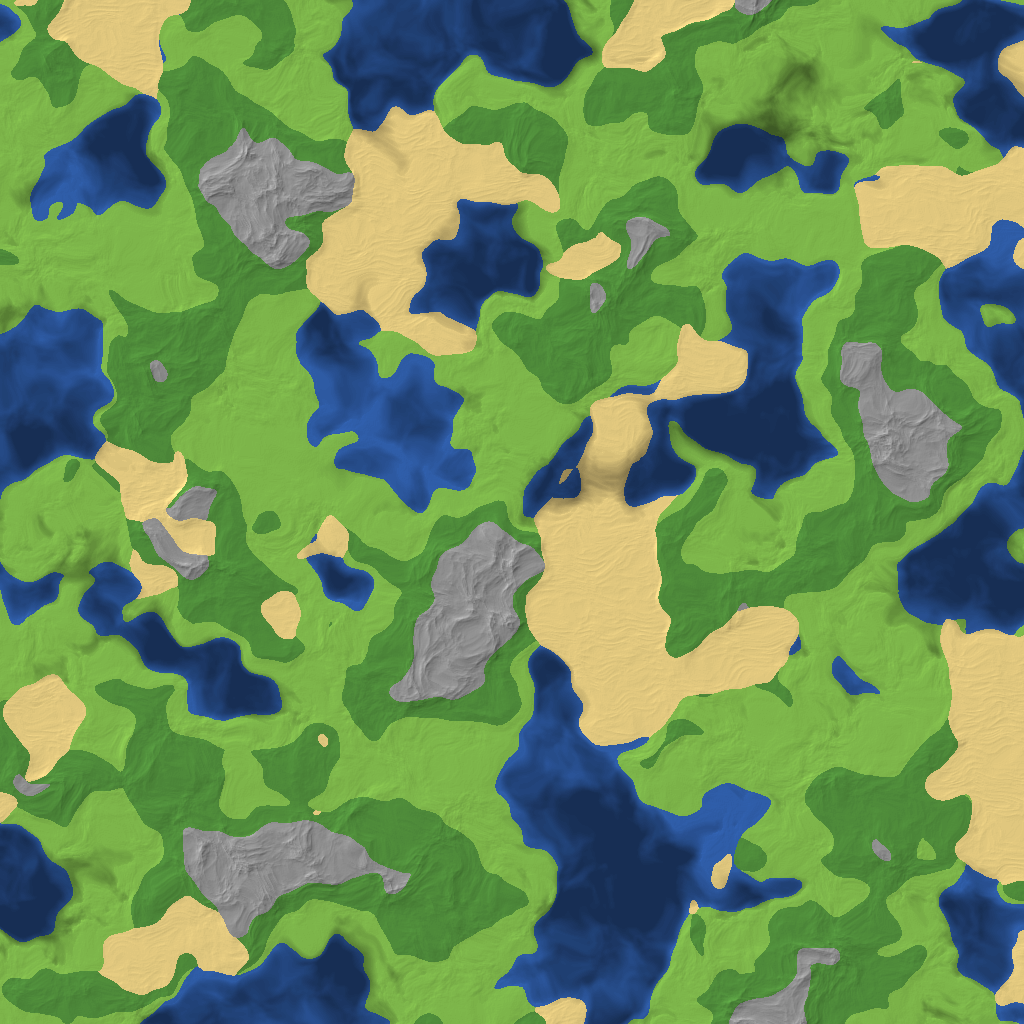
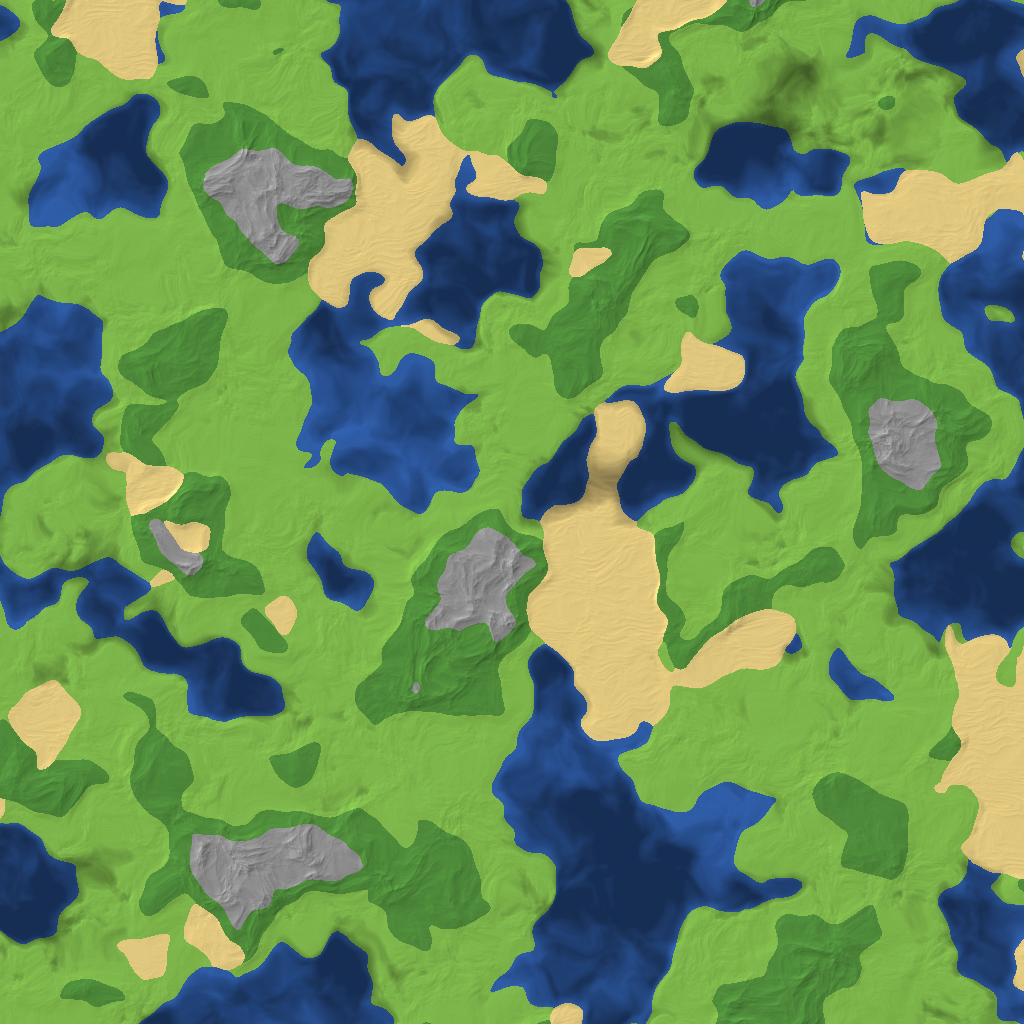
Rebalance biome sizes, raise mountains and refresh README maps

diff --git a/src/main/java/World/Biome/MountainsBiome.java b/src/main/java/World/Biome/MountainsBiome.java
@@ -9,8 +9,8 @@ import org.joml.Vector2d;
 public class MountainsBiome extends Biome {
 
     // Lifts the whole range above the surrounding land before peaks are added
-    static final double BASE_LIFT = 30.0;
-    static final double PEAK_HEIGHT = 117.0;
+    static final double BASE_LIFT = 45.0;
+    static final double PEAK_HEIGHT = 140.0;
     // Smaller scale = wider ridges
     static final double RIDGE_SCALE = 0.006 / 1.3;
     private static final int RIDGE_OCTAVES = 5;
@@ -19,7 +19,7 @@ public class MountainsBiome extends Biome {
 
     public MountainsBiome() {
         super("Mountains",
-                new Climate(0.0, 0.0, 1.0),
+                new Climate(0.0, 0.0, 1.1),
                 new TerrainSettings()
                         .baseHeight(64)
                         .hills(12.0, 0.012, 4),

diff --git a/src/main/java/World/Biome/HillyPlainsBiome.java b/src/main/java/World/Biome/HillyPlainsBiome.java
@@ -20,7 +20,7 @@ public class HillyPlainsBiome extends Biome {
 
     public HillyPlainsBiome() {
         super("Hilly Plains",
-                new Climate(0.0, 0.15, 0.5),
+                new Climate(0.0, 0.15, 0.73),
                 new TerrainSettings()
                         .baseHeight(64)
                         .hills(12.0, 0.012, 4)

diff --git a/src/main/java/World/Biome/DesertBiome.java b/src/main/java/World/Biome/DesertBiome.java
@@ -14,7 +14,7 @@ public class DesertBiome extends Biome {
 
     public DesertBiome() {
         super("Desert",
-                new Climate(0.7, -0.7, 0.0),
+                new Climate(0.83, -0.9, 0.0),
                 new TerrainSettings()
                         .baseHeight(64)
                         .hills(3.6, 0.012, 4)

diff --git a/src/main/java/World/Biome/OceanBiome.java b/src/main/java/World/Biome/OceanBiome.java
@@ -9,7 +9,7 @@ public class OceanBiome extends Biome {
 
     public OceanBiome() {
         super("Ocean",
-                new Climate(0.0, 0.0, -0.7),
+                new Climate(0.0, 0.0, -0.74),
                 new TerrainSettings()
                         .baseHeight(36)
                         .hills(6.0, 0.008, 3),

diff --git a/src/main/java/World/Biome/PlainsBiome.java b/src/main/java/World/Biome/PlainsBiome.java
@@ -9,7 +9,7 @@ public class PlainsBiome extends Biome {
 
     public PlainsBiome() {
         super("Plains",
-                new Climate(0.0, 0.3, 0.0),
+                new Climate(0.0, 0.3, 0.1),
                 new TerrainSettings()
                         .baseHeight(64)
                         .hills(12.0, 0.012, 4)

diff --git a/README.md b/README.md
@@ -11,7 +11,7 @@ I built it to learn graphics programming and Java, and eventually to write my ow
 
 ## Features
 
-- **Procedural terrain**: several layers of Perlin noise build the height map. Most of the world is small rolling hills and sandy deserts with dunes. Rare mountain ranges rise to snow-capped peaks, with bare stone on cliffs. The same seed always gives the same world.
+- **Biome-based terrain**: each biome is its own class with its own terrain shape and blocks, and biomes are placed by a temperature, humidity and elevation climate. About 45% of the world is grassy plains, 25% oceans with sandy beaches, 17% hilly plains, 10% deserts with dunes and 3% mountain ranges with snow-capped peaks up to y≈240. Heights blend smoothly across biome borders, and grass gives way to dirt and stone gradually on slopes. The same seed always gives the same world.
 - **Infinite chunk streaming**: 16×256×16 chunks load and unload around the player, nearest first, generated in parallel on a pool of worker threads. Meshes are uploaded to the GPU on the main thread, a few per frame, so the game keeps running smoothly while chunks load.
 - **Lighting**: per-vertex ambient occlusion darkens creases and corners, and directional sunlight shades each face by how directly it faces the sun. Both work on near and distant terrain.
 - **Distance fog**: terrain fades into the sky colour towards the edge of the render distance, so the world has no visible edge.
@@ -228,7 +228,7 @@ Renders a top-down map of a seed straight from the terrain generator, without op
     <td align="center"><sub><code>biomes</code>: ocean, plains, hilly plains, desert, mountains</sub></td>
   </tr>
 </table>
-<sub>Seed 2, the default world, over 4096 × 4096 blocks centred on spawn at 4 blocks per pixel. Each map renders in about 0.6 seconds.</sub>
+<sub>Seed 2, the default world, over 4096 × 4096 blocks centred on spawn at 4 blocks per pixel. Each map renders in under a second.</sub>
 
 ### Controls
 
@@ -254,7 +254,8 @@ Renders a top-down map of a seed straight from the terrain generator, without op
 
 - [ ] Block placing and a hotbar
 - [ ] Saving and loading worlds
-- [ ] Biomes, trees and caves
+- [x] Biomes, oceans and beaches
+- [ ] Rivers, lakes, trees and caves
 - [x] Ambient occlusion and directional sunlight
 - [ ] Shadows and a day/night cycle
 - [ ] Windows and Linux support
